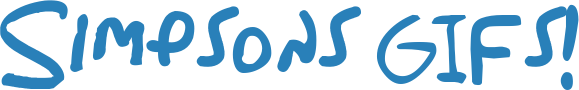
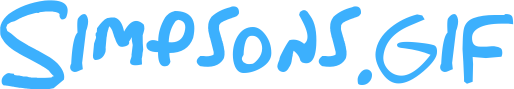
change title and title image

diff --git a/index.html b/index.html
@@ -3,7 +3,7 @@
 <head>
 	<meta charset="UTF-8">
 	<meta name="viewport" content="width=device-width, initial-scale=1.0">
-	<title>Simpsons GIFs!</title>
+	<title>Simpsons.gif</title>
 	<link rel="icon" href="favicon.ico">
     <script src="https://use.fontawesome.com/6207f4ce66.js"></script>
 	<link rel="stylesheet" href="https://maxcdn.bootstrapcdn.com/bootstrap/3.3.7/css/bootstrap.min.css" integrity="sha384-BVYiiSIFeK1dGmJRAkycuHAHRg32OmUcww7on3RYdg4Va+PmSTsz/K68vbdEjh4u" crossorigin="anonymous">
@@ -14,7 +14,7 @@
 <body class="site">
 	<div class="container site-content">
 		<img class="title-image img-responsive" src="assets/images/title.png" alt="Simpsons GIFs title image"></a>
-		<h1 class="sr-only">Simpsons GIFs!</h1>
+		<h1 class="sr-only">Simpsons.gif</h1>
 		<div class="row">
 			<div class="col-md-8">
 				<h2>Current Topics:</h2>
